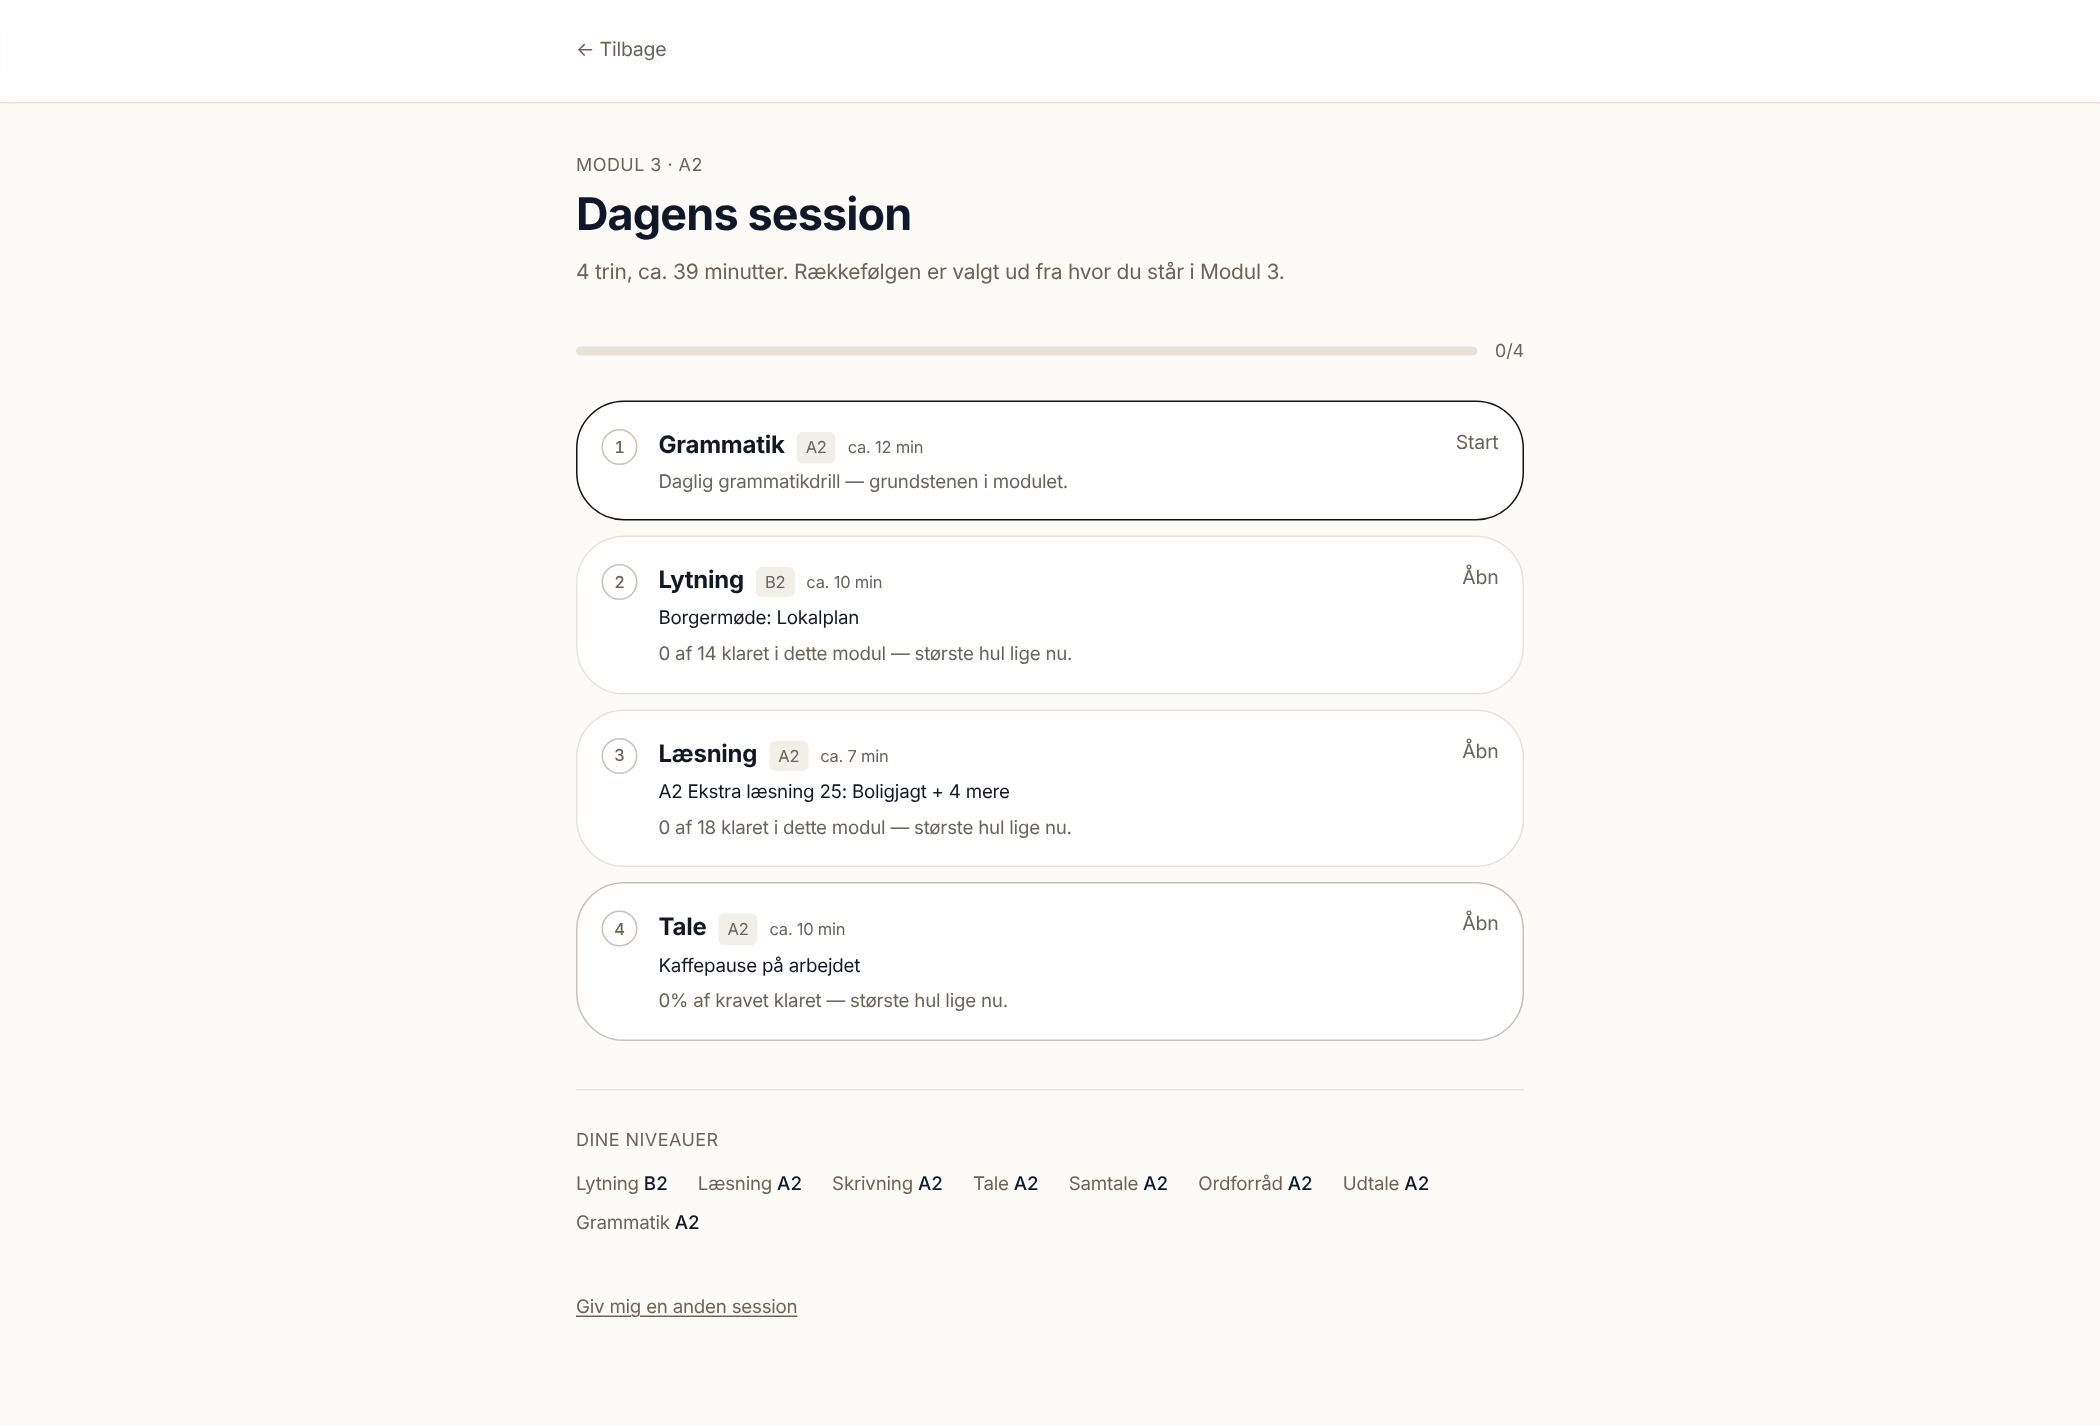
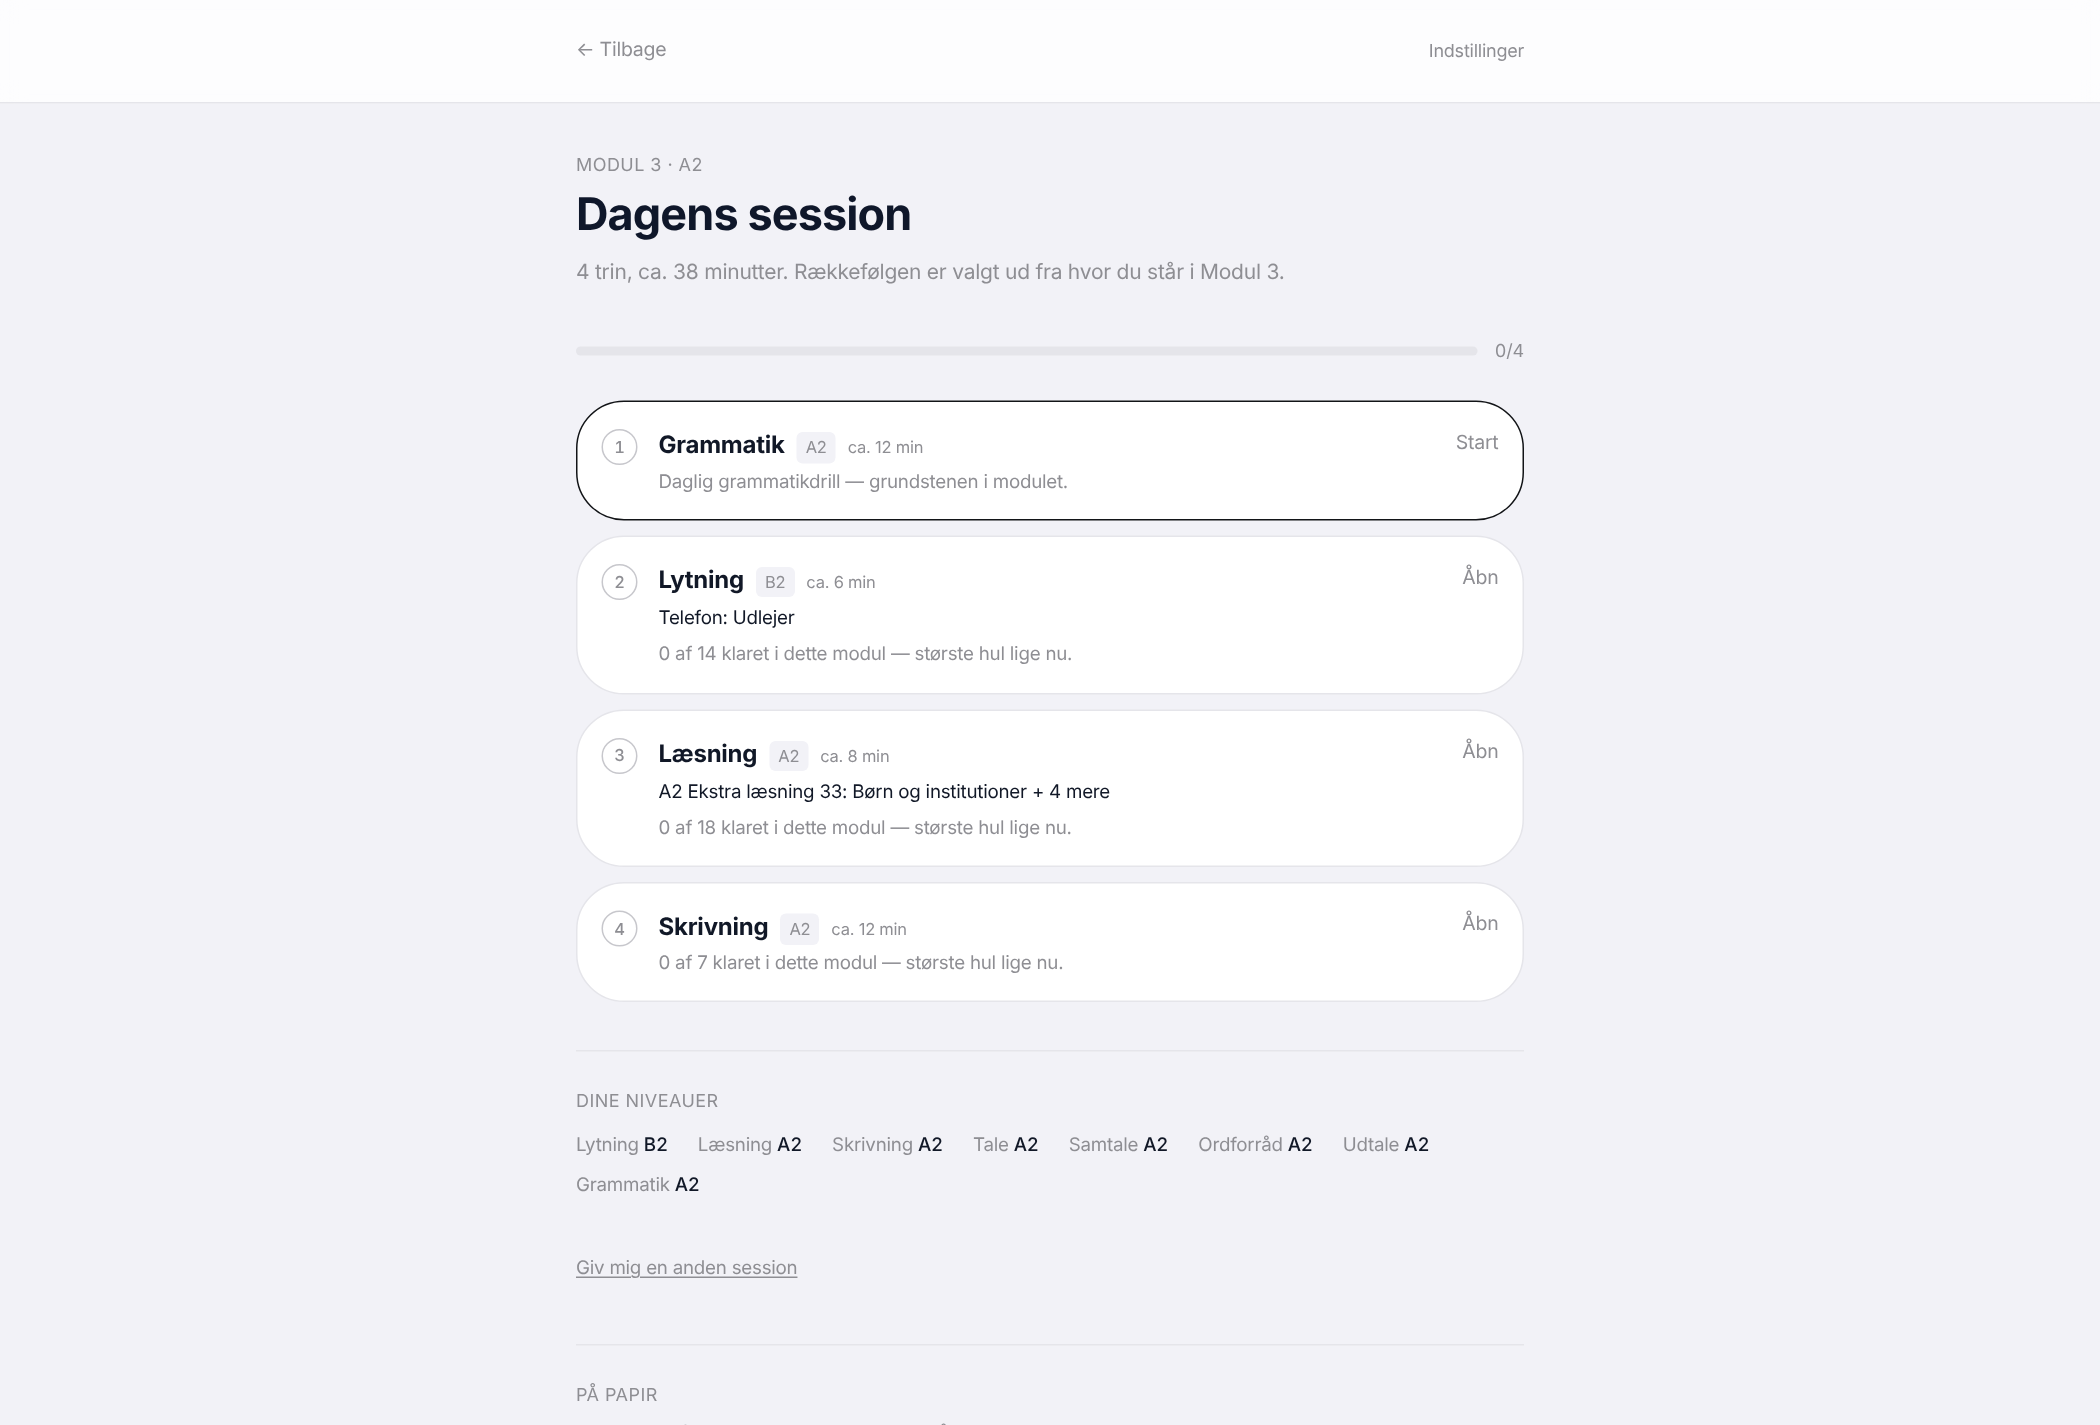
Refresh the walkthrough against the current build
Every screenshot in version 1 was stale within the hour: the palette
consolidated onto the system colours, and Settings and the printable worksheet
did not exist when it was captured. Re-captured end to end — fifteen screens,
signup through day two, no crashes.

Two steps added: the printable worksheet, and the optional LLM key in Settings.
One caveat removed, because it is no longer true — the grammar drill no longer
reads as a different app now that the palette and its interface strings match
the rest.

Claude-Session: https://claude.ai/code/session_01RxCTkDPiwhLAfXnJAAReJN

diff --git a/docs/walkthrough.html b/docs/walkthrough.html
@@ -158,12 +158,12 @@ footer p{font-size:14px; color:var(--ink-faint); max-width:660px}
   <div class="col">
     <div class="num">STEP 04</div>
     <h3>Day one is already planned</h3>
-    <p>She opens the app and there is no menu, no streak to protect, no choice to make. Four steps, thirty-nine minutes, and each one says why it was chosen — <em class="da">0 af 18 klaret i dette modul — største hul lige nu</em>.</p>
+    <p>She opens the app and there is no menu, no streak to protect, no choice to make. Four steps, thirty-eight minutes, and each one says why it was chosen — <em class="da">0 af 18 klaret i dette modul — største hul lige nu</em>.</p>
     <p>Look at the second step. <strong>Listening is set at B2 on her very first day</strong>, while her reading and grammar sit at A2. The placement test is not a formality she passed through; it decided what she is about to hear.</p>
   </div>
   <figure>
-    <img src="img/06-plan-day1.png" alt="Day one plan: Grammatik A2 12 minutes, Lytning B2 10 minutes, Læsning A2 7 minutes, Tale A2 10 minutes.">
-    <figcaption>The plan names the actual material — <em class="da">Borgermøde: Lokalplan</em>, <em class="da">Boligjagt + 4 mere</em> — so she knows what she is walking into.</figcaption>
+    <img src="img/06-plan-day1.png" alt="Day one plan: Grammatik A2 12 minutes, Lytning B2 6 minutes, Læsning A2 8 minutes, Skrivning A2 12 minutes.">
+    <figcaption>The plan names the actual material — <em class="da">Telefon: Udlejer</em>, <em class="da">Børn og institutioner + 4 mere</em> — so she knows what she is walking into.</figcaption>
   </figure>
 </section>
 
@@ -200,11 +200,11 @@ footer p{font-size:14px; color:var(--ink-faint); max-width:660px}
   <div class="col">
     <div class="num">STEP 07</div>
     <h3>Listening, at her level rather than the app's</h3>
-    <p>Ana hears <em class="da">Borgermøde: Lokalplan</em> — a council meeting about a local planning decision. That is a B2 clip, and she gets it on day one because she earned it in the placement test forty minutes earlier.</p>
+    <p>Ana hears <em class="da">Telefon: Udlejer</em> — a phone call with a landlord. That is a B2 clip, and she gets it on day one because she earned it in the placement test forty minutes earlier.</p>
     <p>The library of other clips is hidden while she is in a session. The plan already chose; showing her twenty-five alternatives would only invite her off the rails.</p>
   </div>
   <figure>
-    <img src="img/10-listening-step.png" alt="The listening step in session mode, with no sidebar, showing the clip and its comprehension question.">
+    <img src="img/10-content-step.png" alt="A content step in session mode, with no sidebar, showing the material the plan chose.">
     <figcaption>Clips are spoken by the browser, so there are no audio files to download and it works offline.</figcaption>
   </figure>
 </section>
@@ -225,7 +225,7 @@ footer p{font-size:14px; color:var(--ink-faint); max-width:660px}
 <section class="step">
   <div class="col">
     <div class="num">STEP 09</div>
-    <h3>Thirty-nine minutes later, she is done</h3>
+    <h3>Thirty-eight minutes later, she is done</h3>
     <p>Four steps, four ticks. Her levels are listed at the bottom: listening has held at B2, everything else is still A2. One day in a row.</p>
   </div>
   <figure>
@@ -237,12 +237,41 @@ footer p{font-size:14px; color:var(--ink-faint); max-width:660px}
 <section class="step">
   <div class="col">
     <div class="num">STEP 10</div>
+    <h3>She takes the day away from the screen</h3>
+    <p>Ana prints the sheet and does it on the train. Thirty questions drawn from her weakest categories at her level, a short explanation of the topic first, and the answer key on its own page so it can be folded back while she works.</p>
+    <p>Each question has a <strong>line to write on</strong> rather than three buttons to choose between. Picking the least-wrong option is a different skill from producing the word, and the exam she is working towards asks for the second one. There is also a <em class="da">ved ikke</em> box that costs nothing — guessing hides what she does not know, and the point of the sheet is to find that out.</p>
+  </div>
+  <figure>
+    <img src="img/13-worksheet.png" alt="The printable worksheet: an explainer section at the top, thirty questions in two columns with answer lines, and a Facit page with reasons.">
+    <figcaption>A4, two columns, prints or saves as PDF. The reasons on the answer key are the same ones the app shows on screen.</figcaption>
+  </figure>
+  <div class="hood">
+    <span class="h">Under the hood</span>
+    <p>The sheet keeps its own record of what it has used, so paper and screen do not consume each other's material — doing a worksheet does not empty tomorrow's session.</p>
+  </div>
+</section>
+
+<section class="step">
+  <div class="col">
+    <div class="num">STEP 11</div>
+    <h3>If she wants written feedback, she brings a key</h3>
+    <p>Writing feedback works without any setup — it checks length, personal voice and connectives against what the task asked for. Adding an OpenAI key in Settings upgrades that to a language model reading her paragraph. Nothing else in the app depends on it.</p>
+  </div>
+  <figure>
+    <img src="img/14-settings.png" alt="The settings screen with provider, API key and model fields.">
+    <figcaption>Optional. The key is stored in her browser and used directly from it.</figcaption>
+  </figure>
+</section>
+
+<section class="step">
+  <div class="col">
+    <div class="num">STEP 12</div>
     <h3>Day two is a different day</h3>
-    <p>She comes back and gets <strong>writing, vocabulary and pronunciation</strong> — none of which she did yesterday. Nothing she has already read or heard will be served to her again.</p>
+    <p>She comes back and gets <strong>speaking, conversation and pronunciation</strong> — none of which she did yesterday. Nothing she has already read or heard will be served to her again.</p>
     <p>This is the rotation working: skills are chosen by how far they sit from her Modul 3 requirement <em>and</em> by how long since she last touched them, so nothing goes stale for more than about a week and no single skill can monopolise her evenings.</p>
   </div>
   <figure>
-    <img src="img/13-plan-day2.png" alt="Day two plan: Grammatik, Skrivning, Ordforråd and Udtale — a different set of skills from day one.">
+    <img src="img/15-plan-day2.png" alt="Day two plan: Grammatik, Tale, Samtale and Udtale — a different set of skills from day one.">
     <figcaption>Grammar is the only daily constant. Everything else rotates.</figcaption>
   </figure>
 </section>
@@ -267,14 +296,14 @@ footer p{font-size:14px; color:var(--ink-faint); max-width:660px}
     <div class="caveats">
       <div><b>Reading texts are short.</b> About 100 words with roughly one comprehension question. At B1 and above that is thin, which is why the reading step stacks several texts rather than serving one.</div>
       <div><b>The ladder has a ceiling.</b> There are no B2-tagged grammar exercises, so at the top it draws from the general pool rather than genuinely harder material.</div>
-      <div><b>The grammar drill looks like a different app.</b> Different palette, English interface strings. It works, and it has not been reconciled with the rest.</div>
+      
       <div><b>Nobody has used it for a full week.</b> Everything on this page is a real capture of real software, verified screen by screen. None of it is yet verified by a learner who finished seven sessions in a row.</div>
     </div>
   </div>
 </section>
 
 <footer>
-  <p>Captured in a single automated run against a production build on 21 October 2026: sign-up through to the day-two plan, thirteen screens, no crashes. Ana is a stand-in; the placement scores, the chosen material and the levels shown are whatever the application actually produced.</p>
+  <p>Captured in a single automated run against a production build on 21 October 2026: sign-up through to the day-two plan, fifteen screens, no crashes. Ana is a stand-in; the placement scores, the chosen material and the levels shown are whatever the application actually produced.</p>
 </footer>
 
 </div>
